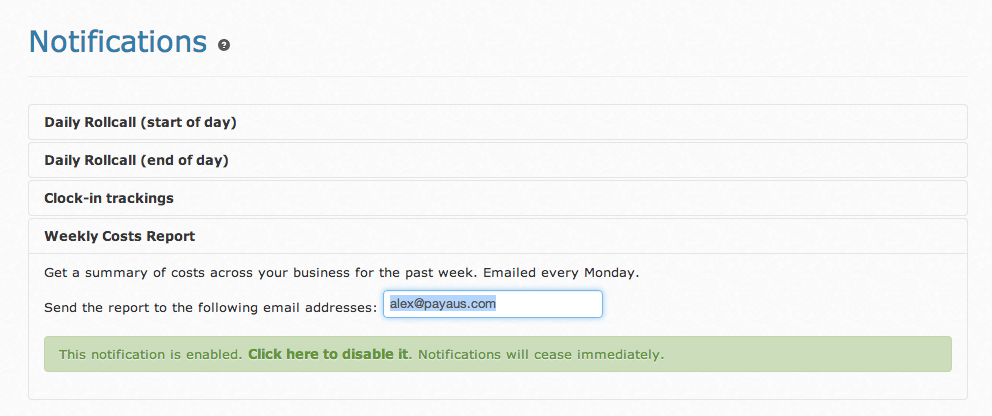
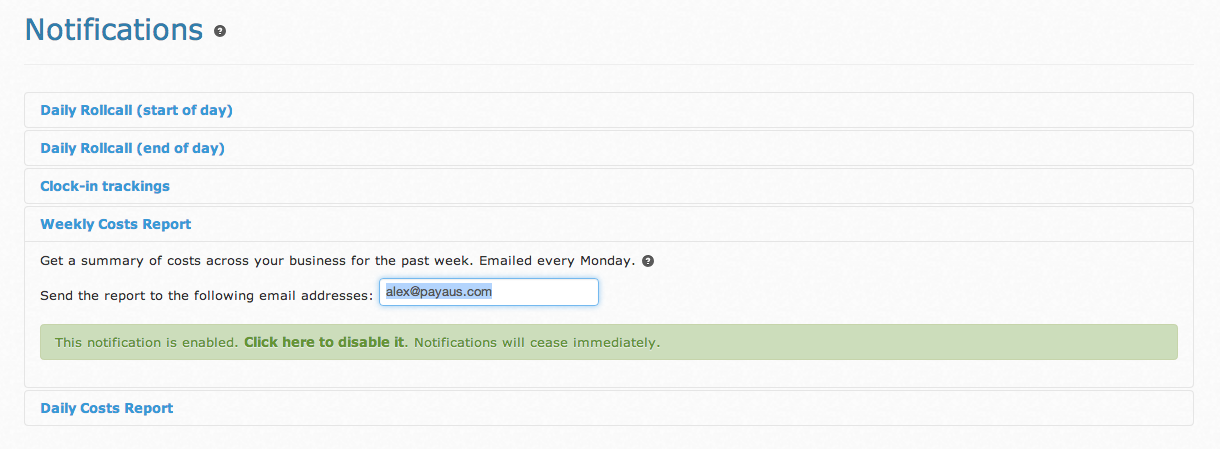
add keypay and costs reports

diff --git a/_posts/staff/2013-02-06-importing.md b/_posts/staff/2013-02-06-importing.md
@@ -73,13 +73,13 @@ From the [staff page](../team/), follow the prompts to get to import staff from 
 
 {% render_partial xero_auth.md %}
 
-You'll be redirected back to PayAus, where you'll see a progress indicator. Once your staff have been imported, you'll be able to [welcome them to PayAus](../introducing/). <a href="http://www.payaus.com/about/us">Contact PayAus</a> if you get any errors you are unable to fix.
+You'll be redirected back to PayAus, where you'll see a progress indicator. Once your staff have been imported, you'll be able to [welcome them to PayAus](../introducing/). <a href="http://www.payaus.com/about">Contact PayAus</a> if you get any errors you are unable to fix.
 
 ## Reckon (QuickBooks/Quicken)
 
 ### Exporting from Quickbooks
 
-You can export your staff data from Quickbooks. PayAus does not currently import staff data from Quickbooks automatically, but the PayAus support team is able to assist you with data imports. [Contact PayAus](http://www.payaus.com/about/us?from=help) for more information.
+You can export your staff data from Quickbooks. PayAus does not currently import staff data from Quickbooks automatically, but the PayAus support team is able to assist you with data imports. [Contact PayAus](http://www.payaus.com/about?from=help) for more information.
 
 To export data from Quickbooks;
 
@@ -89,7 +89,7 @@ To export data from Quickbooks;
 
 [See this guide from Quickbooks support for more information.](http://payroll.intuit.com/support/kb/1000915.html)
 
-Once you have saved a `.iif` file on your computer, you can email it to PayAus support, who will be able to import your staff into PayAus from this file. [Contact PayAus](http://www.payaus.com/about/us?from=help) for more information.
+Once you have saved a `.iif` file on your computer, you can email it to PayAus support, who will be able to import your staff into PayAus from this file. [Contact PayAus](http://www.payaus.com/about?from=help) for more information.
 
 ## Wage Easy
 
@@ -148,6 +148,20 @@ Click the *Import Staff* button when you're ready. Importing can take a minute o
 
 When the import is complete you'll see your new list of staff. If there were any errors in the import, PayAus will let you know what went wrong, and which line of the CloudPayroll file was the culprit. The errors can be corrected by editing the CloudPayroll `.txt` file, though if there are only a few that didn't work, it may be easier to [add them manually](../team/#adding_new_team_members). Note that PayAus will ignore the first few lines of the CloudPayroll file and will only start counting lines from the line that contains headers ("id surname firstNames...").
 
+## KeyPay
+
+PayAus can automatically import staff information from KeyPay.
+
+### Syncing Staff with KeyPay
+
+From the [staff page](../team/), follow the prompts to get to import staff from Xero.
+
+![Importing from MYOB - navigation](/img/users/myob_navigation.png)
+
+{% render_partial keypay_auth.md %}
+
+Once you've connected your account to KeyPay, your staff will be imported from KeyPay automatically. You can do this as many times as you like, so if you employee someone new, enter their details into KeyPay then import them into PayAus. Once your staff have been imported, you'll be able to [welcome them to PayAus](../introducing/). <a href="http://www.payaus.com/about">Contact PayAus</a> if you get any errors.
+
 ## Importing from Excel
 
 Using Microsoft Excel, you can fill out a template in `.csv` format to import your staff data. From the [staff page](../team/), follow the prompts to get to the Import From Excel page.
@@ -177,6 +191,6 @@ When the import is complete you'll see your new list of staff. If there were any
 <div class="alert alert-block">
 	<i class="icon-wrench"> </i>
 	<p>
-		We're building importing systems for other accounting packages too! <a href="http://www.payaus.com/contact?from=help-importing-staff">Let us know</a> what you use.
+		We're building importing systems for other accounting packages too! <a href="http://www.payaus.com/about?from=help-importing-staff">Let us know</a> what you use.
 	</p>
 </div>

diff --git a/_posts/settings/2013-05-18-settings.md b/_posts/settings/2013-05-18-settings.md
@@ -41,6 +41,17 @@ Aggressive mode is enabled for clock-ins and clock-outs by default. It can be to
 
 The longest permissible length of a shift, in hours. This is used to determine where one shifts ends and another one finishes, and for certain edge cases such as overnight shifts. A reasonable default is **12** hours, though this varies between industries. Be careful when setting this to anything lower than 10 hours as it may break in cases of legitimate overtime.
 
+#### Tag shifts based on
+
+Every time a timesheet's shift is automatically generated, a tag can be applied to it. This tag may come in handy when exporting data to an accounting system or for reporting purposes. Here you can choose how this tag is applied. The default is to use the name of the time clock that the employee clocked in via (*unless* they used the [employee portal](../../portals/employee)). This data is included when [exporting timesheet data for payroll](../../timesheets/exported).
+
+[Read more about timesheet tags](../../settings/tags/#using_timesheet_tags).
+
+* Name of the time clock used to clock in. Use this if if you manage multiple locations (each with their own time clock) and want to compare costs between locations. It can also be used as a naive method of job tracking, where each time clock is set up as a separate job in your accounting system.
+* Name of employee's department. Use this if you have departments representing lines of business and want to compare costs across lines.
+* Tag applied to employee's roster. Use this if you want the timesheet tag to match up to the [roster tag](../../settings/tags/#using_roster_tags). For example, if you have lots of locations but only a few time clocks, you can use roster tags to classify locations and have this data copy across to timesheets. If there are no rosters for this shift, no tag will be added (you can add one manually).
+* Leave blank. Use this if you do not want automatic tagging applied to your shifts. Note that some accounting packages will raise errors if you try to import tag data that is not recognised. In such cases you can disable this feature by choosing to leave tags blank.
+
 ## Breaks
 
 Configure settings relating to *breaks*, an optional (but recommended) component of the [timesheet](../../timesheets/) algorithm.

diff --git a/_posts/notifications/2013-06-03-reports.md b/_posts/notifications/2013-06-03-reports.md
@@ -1,9 +1,11 @@
 ---
 layout: guide
-title: Weekly Reports
+title: Costs Reports
 categories: ['notifications']
 sort: 3
 ---
+
+## Weekly Costs Report
 
 PayAus can send you a weekly report breaking down your rostered and actual costs for the week that was. The report is delivered to your inbox on the first day of the week. You can enable the report from the [notifications](../intro/) page, by entering one or more emails separated by commas. Then, enable the report by clicking the green bar (you can click the bar again to disable it).
 
@@ -12,3 +14,13 @@ PayAus can send you a weekly report breaking down your rostered and actual costs
 The report gives you an insight into your business activity over the last week.
 
 ![Weekly report](/img/notifications/weekly_report.png)
+
+## Daily Costs Report
+
+PayAus can send you a daily report with a rolling total of rostered and actual costs for the current week. The report is delivered to your inbox on a daily basis. You can enable the report from the [notifications](../intro/) page, by entering one or more emails separated by commas. Then, enable the report by clicking the green bar (you can click the bar again to disable it).
+
+![Weekly report configuration](/img/notifications/daily_report_config.png)
+
+The report gives you an insight into your business activity over the last week.
+
+![Weekly report](/img/notifications/daily_report.png)

diff --git a/_posts/settings/2013-08-20-tags.md b/_posts/settings/2013-08-20-tags.md
@@ -31,6 +31,10 @@ Edit a tag by clicking on its name or colour. You can enter a new name in free t
 
 Delete tags using the **delete** link next to each tag. If you delete all your tags, the default colour palette will return to your rosters.
 
+## Nomenclature
+
+In your settings there is an option to configure [how tags are referred to across the system](../../settings/settings/#title_of_roster_tags_field). You can make this anything you like. For example, set it to "Locations", and when staff get their rosters sent out to them, the roster will include the "location" of each shift.
+
 ## Using roster tags
 
 ### Working with rosters
@@ -84,3 +88,7 @@ When you export data to your accounting system, this tag will be included in the
   <i class="icon-hand-right"> </i>
   <p>Learn more about <a href="../../timesheets/exports/">exporting timesheet data for payroll</a>.</p>
 </div>
+
+### Automatic tagging
+
+In your settings there is an option to configure [how timesheets are tagged automatically](../../settings/settings/#tag_shifts_based_on).

diff --git a/_includes/keypay_auth.md b/_includes/keypay_auth.md
@@ -1,0 +1,10 @@
+If you have not connected to KeyPay already, you'll be redirected to a screen where you can authorise PayAus to access your KeyPay account. To do this you will need to enter your [KeyPay API Key](http://keypay.com.au/keypay-apigetting-started). To get your API Key:
+
+1. Log in to [KeyPay](https://keypay.yourpayroll.com.au/). Click your username in the top right corner and choose [My Account](https://keypay.yourpayroll.com.au/Account)
+2. If the API Key field is empty, click *Generate API Key*. Then copy the API Key from the textbox where it appears.
+
+![Getting your KeyPay API Key](/img/keypay_api_key.png)
+
+Now, enter this API Key into PayAus where prompted. PayAus will load a list of KeyPay businesses linked to this API Key &mdash; choose yours and click *Connect to KeyPay*.
+
+![Connecting PayAus to KeyPay](/img/keypay_payaus.png)
